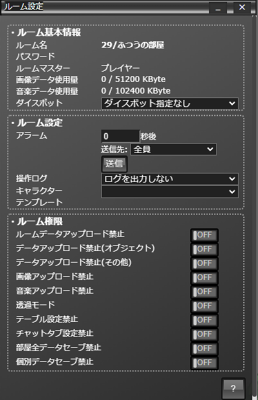
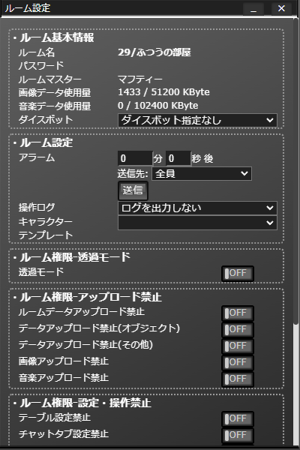
ヘルプ整備

diff --git a/src/app/component/help/help-room/help-room.component.html b/src/app/component/help/help-room/help-room.component.html
@@ -20,16 +20,29 @@
         <li>操作ログ：<br/>ダイス・カードの操作ログを残します</li>
         <li>キャラクターテンプレート：<br/>新しいキャラクターを作成したときに、ここで選択したキャラクターの画像以外のデータをコピーします。</li>
       </ul>
-      ルーム権限<BR/>
+      ルーム権限-透過モード<BR/>
+      <ul>
+        <li>透過モード：<br/>ルームマスターが伏せられたダイス・カード・キャラクターを確認可能にします</li>
+      </ul>
+      ルーム権限-アップロード禁止<BR/>
       <ul>
         <li>ルームデータアップロード禁止：<br/>ルームデータのアップロードを禁止します。ルームマスターも含まれます。</li>
         <li>データアップロード禁止(オブジェクト)：<br/>ルームマスター以外がオブジェクト(キャラクターや地形、共有メモ等)をアップロードすることを禁止します</li>
         <li>データアップロード禁止(その他)：<br/>ルームマスター以外がオブジェクト以外(チャットログ等)をアップロードすることを禁止します</li>
         <li>画像アップロード禁止：<br/>ルームマスター以外が画像をアップロードすることを禁止します</li>
         <li>音楽アップロード禁止：<br/>ルームマスター以外が音楽をアップロードすることを禁止します</li>
-        <li>透過モード：<br/>ルームマスターが伏せられたダイス・カード・キャラクターを確認可能にします</li>
+      </ul>
+      ルーム権限-設定・操作禁止<BR/>
+      <ul>
         <li>テーブル設定禁止：<br/>ルームマスター以外がテーブルを操作することを禁止します</li>
         <li>チャットタブ設定禁止：<br/>ルームマスター以外がチャットタブを操作することを禁止します</li>
+        <li>カウンター設定禁止：<br/>ルームマスター以外がカウンターを操作することを禁止します</li>
+        <li>カットイン設定禁止：<br/>ルームマスター以外がカットインを操作することを禁止します</li>
+        <li>ダイスボット表設定禁止：<br/>ルームマスター以外がダイスボット表を操作することを禁止します</li>
+        <li>ラウンド操作禁止：<br/>ルームマスター以外がラウンドを操作することを禁止します</li>
+      </ul>
+      ルーム権限-保存禁止<BR/>
+      <ul>
         <li>部屋全データセーブ禁止：<br/>ルームマスター以外がルームの全データを保存できなくします</li>
         <li>個別データセーブ禁止：<br/>ルームマスター以外がデータを保存できなくします</li>
       </ul>
@@ -43,7 +56,8 @@
     <div class="description">
       指定した秒数後にアラームを鳴らします<br/>
       アラームが送信されたプレイヤーにはカウントダウンタイマーが表示され、0:00になったときにアラームが鳴り響きます。<br/>
-      カウントダウンタイマーは消すことができず、例え表示上から消えても時間になればアラームが鳴ります。
+      カウントダウンタイマーは消すことができず、例え表示上から消えても時間になればアラームが鳴ります。<br/><br/>
+      アラームのキャンセルはできません
     </div>
   </div>
   <div class="title">プレイヤー情報(ルーム→プレイヤー情報)</div>

diff --git a/src/app/component/help/help-character/help-character.component.html b/src/app/component/help/help-character/help-character.component.html
@@ -21,4 +21,34 @@
       またはチャット末尾に@effect(エフェクト名)で表示されます<br/>
     </div>
   </div>
+  <div class="title">チャットからのリソース操作</div>
+  <div class="section">
+    <div class="image">
+      <img src="./assets/help/character-resource.png">
+    </div>
+    <div class="description">
+      チャットからリソースを操作することが可能です<br/>
+      書式:<br/>
+      <div style="margin-left: 1em;">
+        :[ステータス名]c(計算式)<br/>
+        :[ステータス名]=(ダイスコマンド)<br/>
+        :[ステータス名]+(ダイスコマンド)<br/>
+        :[ステータス名]-(ダイスコマンド)<br/>
+      </div>
+      <br/>
+      例)<br/>
+      <span style="margin-left: 1em;">
+        :HP-2d6<br/>
+      </span>
+      <br/>
+      C(計算式)と＝はステータスの値を出力結果で置き換えます。<br/>
+      ＋とーはステータスの値に加算・減算します。<br/>
+      <br/>
+      ステータス名はデータが数値と扱えるものであればなんでも指定可能です。<br/>
+      ダイスコマンドはbcdiceから出力される結果が数値であれば使用可能です。<br/>
+      各システム用のコマンドでも問題ありません。<br/>
+      (最終結果が数値である必要はありません。<br/>
+      末尾に 成功 や クリティカル とついていても、過程に数値が出力されていれば大丈夫です。)<br/>
+    </div>
+  </div>
 </div>
